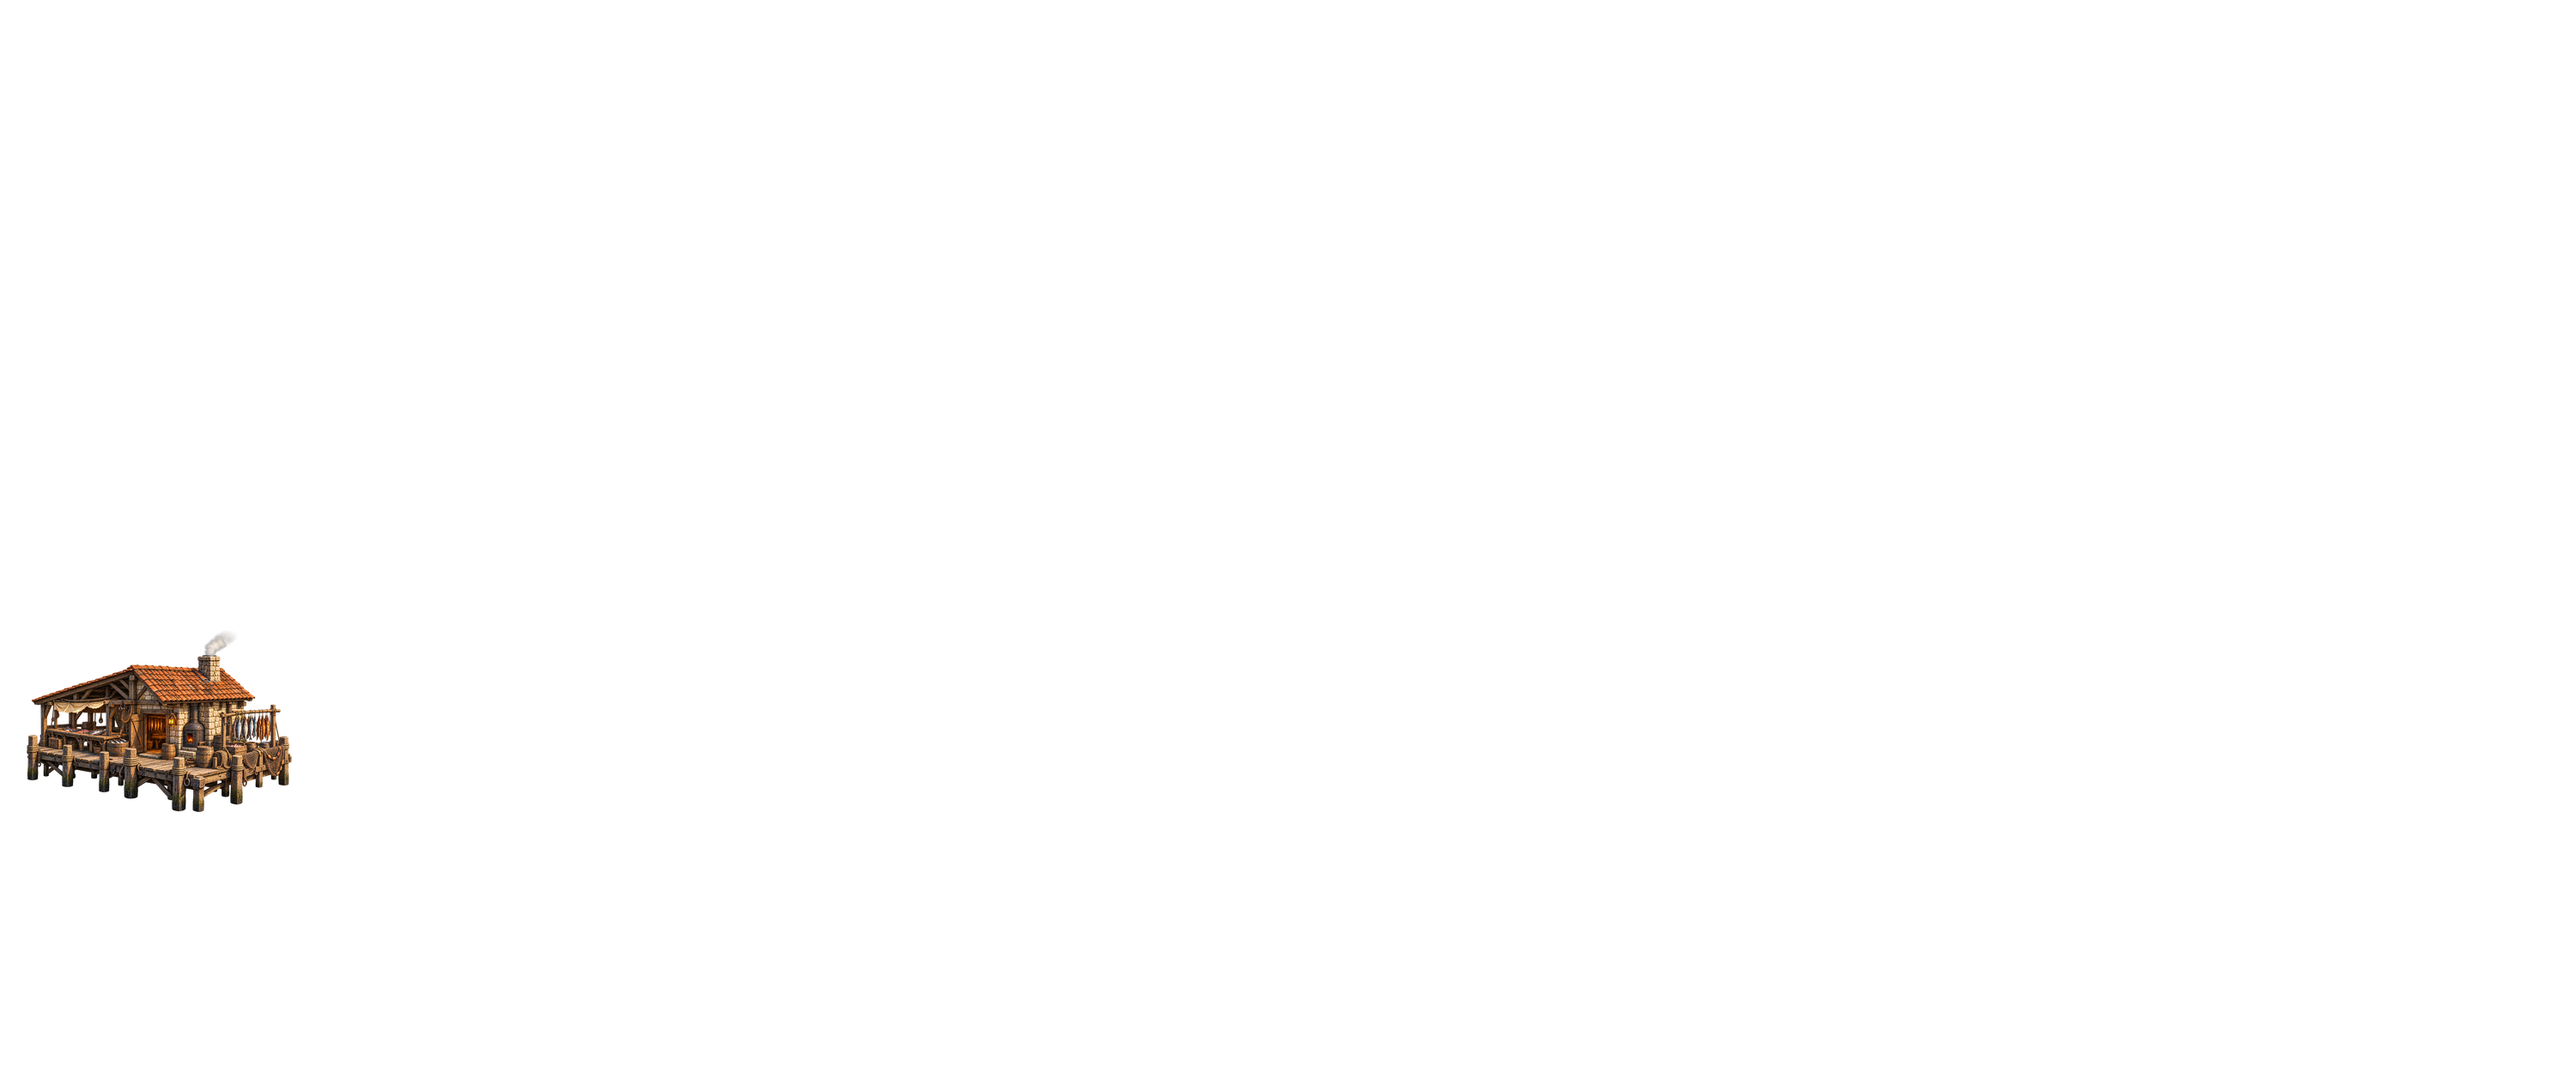
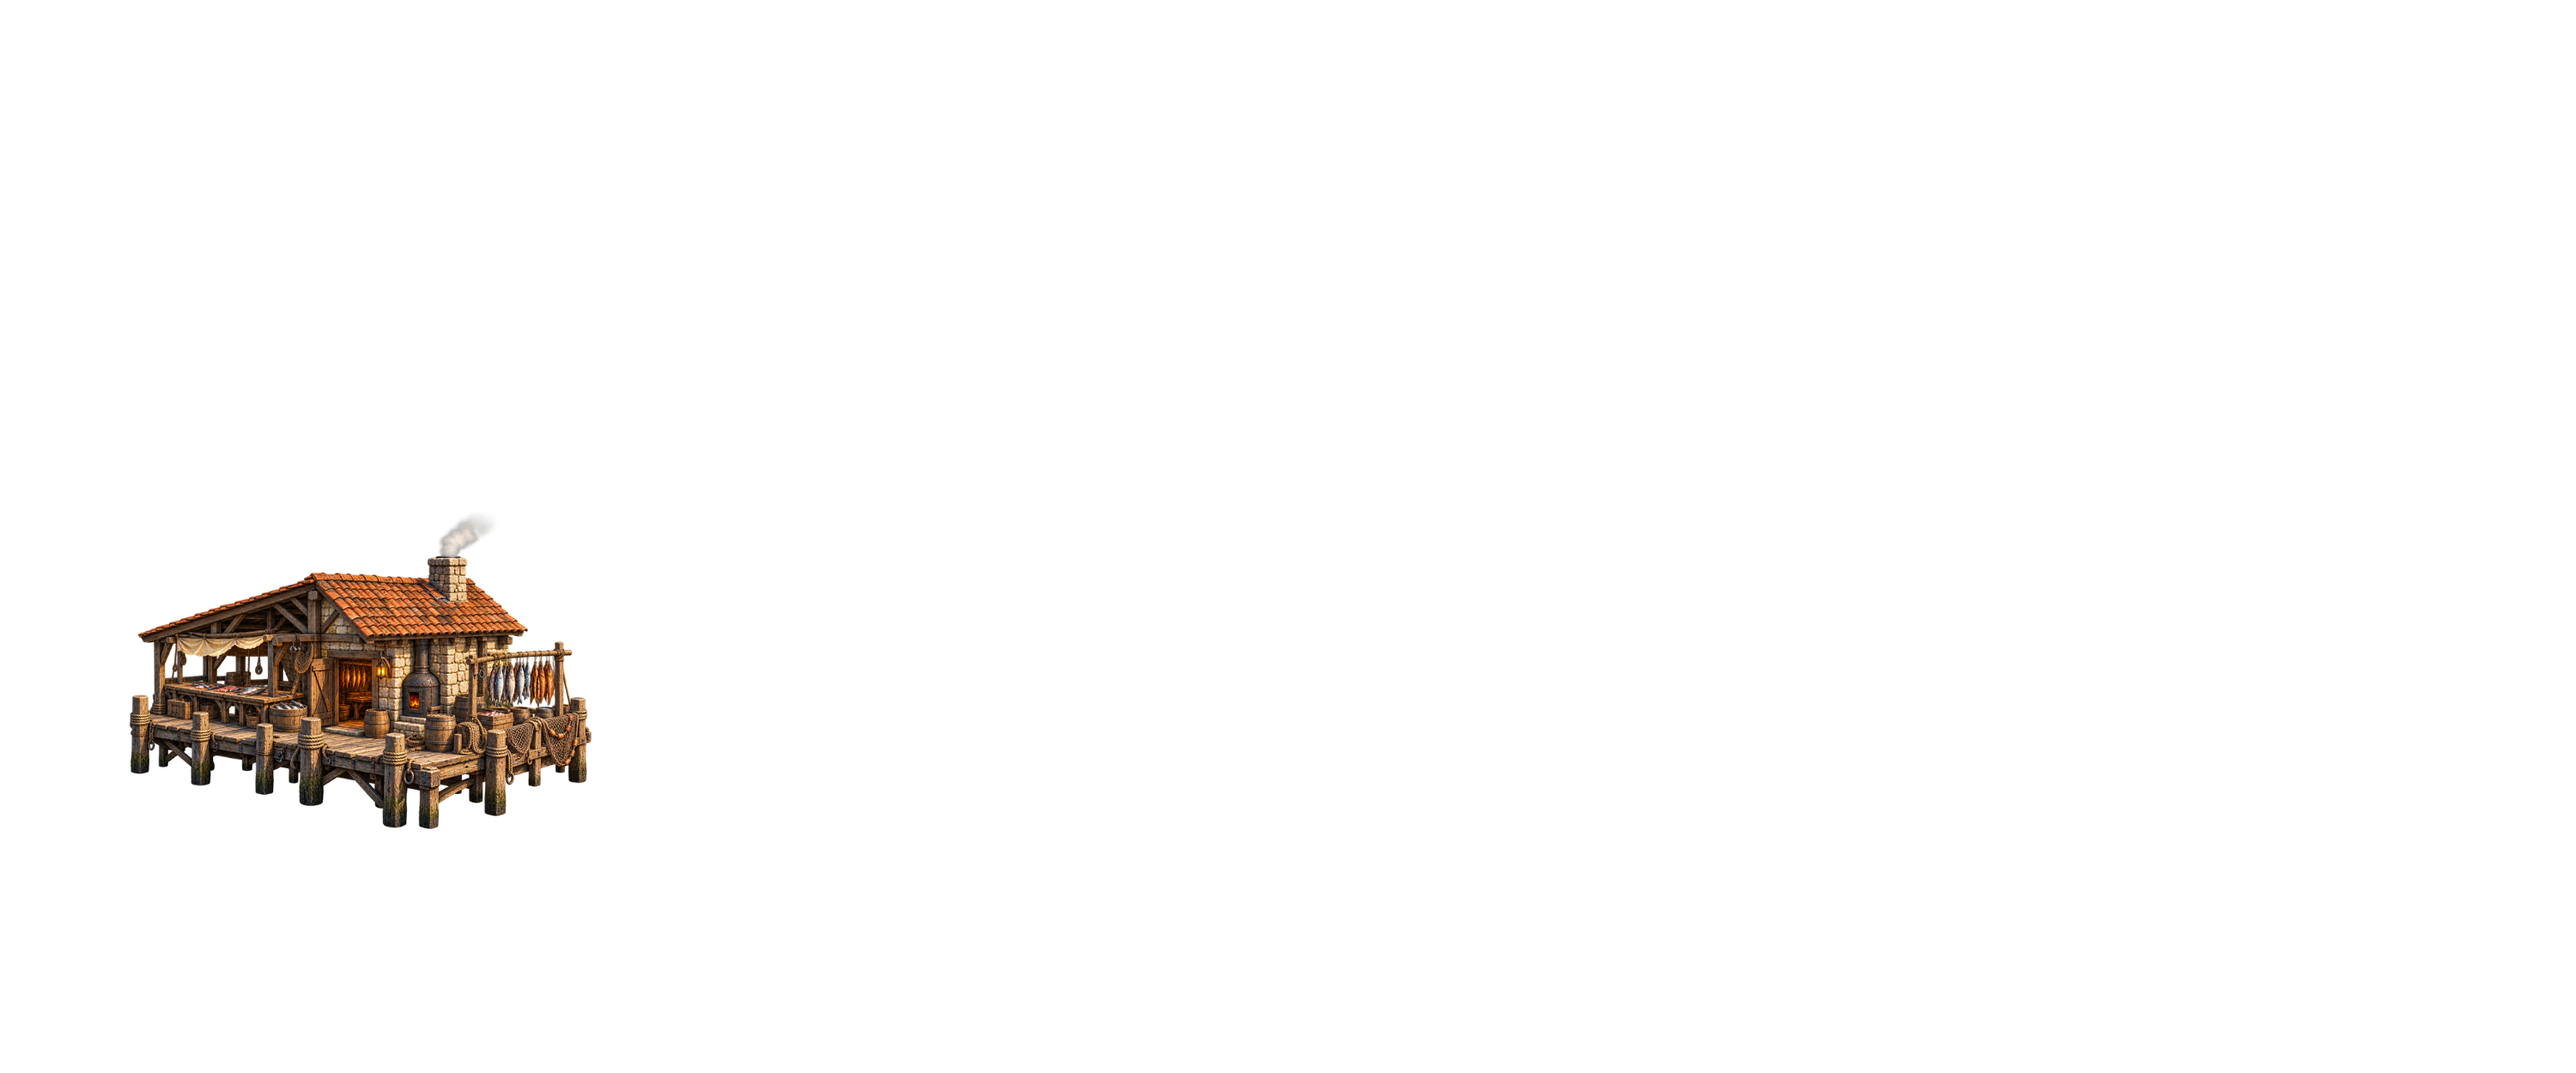
New Bastion map: the start painting is the base, and the buildings use Harry's new overlays
Claude-Session: https://claude.ai/code/session_019H8cm6nMqR18zN8jPhZ5bf

Changed region(s): [[0.0, 0.468, 0.248, 0.78]]

diff --git a/tools/bastion/data/bastion-data.js b/tools/bastion/data/bastion-data.js
@@ -39,13 +39,11 @@ window.TSI_DATA.bastion = {
      little room round it). The Courier Exchange has its own picture
      (facilityImages, above). */
   facilityTileCrops: {
-    /* The Beast Pen (S14) uses the Wyvern Roost's building until Harry paints its own: the Menagerie never
-       had a map overlay to reuse (its card painting is in facilityImages). */
-    beast_pen: { pic: 'map/overlays/wyvern_roost.png', x: 1934, y: 296, w: 295, h: 194 },
-    weavers_hall: { pic: 'map/overlays/weavers_sailmakers_hall.png', x: 2668, y: 670, w: 331, h: 170 },
-    stone_masonworks: { pic: 'map/overlays/stone_quarry_masonworks.png', x: 2004, y: 809, w: 380, h: 206 },
-    fishery_smokehouse: { pic: 'map/overlays/fishery_smokehouse.png', x: 11, y: 714, w: 349, h: 252 },
-    timber_sawmill: { pic: 'map/overlays/timber_yard_sawmill.png', x: 1648, y: 827, w: 380, h: 188 }
+    beast_pen: { pic: 'map/overlays/beast_pen.png', x: 1639, y: 458, w: 531, h: 240 },
+    weavers_hall: { pic: 'map/overlays/weavers_hall.png', x: 2097, y: 409, w: 279, h: 143 },
+    stone_masonworks: { pic: 'map/overlays/stone_quarry_masonworks.png', x: 1965, y: 646, w: 635, h: 331 },
+    fishery_smokehouse: { pic: 'map/overlays/fishery_smokehouse.png', x: 130, y: 578, w: 579, h: 408 },
+    timber_sawmill: { pic: 'map/overlays/timber_yard_sawmill.png', x: 2341, y: 474, w: 389, h: 193 }
   },
   /* Development Plots (the facilities overhaul's pull request 3; Harry's
      facility guide, 13 October 2026): a second kind of construction slot,
@@ -75,17 +73,15 @@ window.TSI_DATA.bastion = {
   mapLabels: {
     workshop: { x: 1030, y: 350 },
     dock: { x: 1260, y: 760 },
-    herbal_gardens: { x: 228, y: 511 },
-    hall_of_emissaries: { x: 2769, y: 376 },
-    /* The Temple stands where the three Shrines did, so it is labelled at each: the first point is Aurush's (the Shrine
-       of Aurush stood there), and "also" lists Telluria's and Pelagos's. */
-    temple: { x: 1275, y: 532, also: [{ x: 2252, y: 722 }, { x: 2668, y: 840 }] },
-    beast_pen: { x: 2081, y: 326 },
-    weavers_hall: { x: 2838, y: 690 },
-    stone_masonworks: { x: 2194, y: 829 },
-    fishery_smokehouse: { x: 185, y: 734 },
-    timber_sawmill: { x: 1838, y: 847 },
-    courier_exchange: { x: 1454, y: 547 }
+    herbal_gardens: { x: 196, y: 464 },
+    hall_of_emissaries: { x: 1582, y: 301 },
+    temple: { x: 182, y: 150 },
+    beast_pen: { x: 1904, y: 478 },
+    weavers_hall: { x: 2236, y: 429 },
+    stone_masonworks: { x: 2282, y: 666 },
+    fishery_smokehouse: { x: 419, y: 598 },
+    timber_sawmill: { x: 2535, y: 494 },
+    courier_exchange: { x: 819, y: 484 }
   },
   /* Facility levels (the facilities overhaul's step 1b, 13 October 2026;
      Harry's decisions D6 to D8): every facility goes from Level 1 to 5. An
@@ -195,14 +191,11 @@ window.TSI_DATA.bastion = {
     width: 3000,
     height: 1250,
     overlays: [
-      { fac: 'herbal_gardens', pic: 'map/overlays/greenhouse.png' },
+      { fac: 'herbal_gardens', pic: 'map/overlays/herbal_gardens.png' },
       { fac: 'hall_of_emissaries', pic: 'map/overlays/hall_of_emissaries.png' },
-      /* The Temple draws all three Shrine buildings (S11); the pictures stay as they were. */
-      { fac: 'temple', pic: 'map/overlays/shrine_of_aurush.png' },
-      { fac: 'temple', pic: 'map/overlays/shrine_of_telluria.png' },
-      { fac: 'temple', pic: 'map/overlays/shrine_of_pelagos.png' },
-      { fac: 'beast_pen', pic: 'map/overlays/wyvern_roost.png' },
-      { fac: 'weavers_hall', pic: 'map/overlays/weavers_sailmakers_hall.png' },
+      { fac: 'temple', pic: 'map/overlays/temple.png' },
+      { fac: 'beast_pen', pic: 'map/overlays/beast_pen.png' },
+      { fac: 'weavers_hall', pic: 'map/overlays/weavers_hall.png' },
       { fac: 'stone_masonworks', pic: 'map/overlays/stone_quarry_masonworks.png' },
       { fac: 'fishery_smokehouse', pic: 'map/overlays/fishery_smokehouse.png' },
       { fac: 'timber_sawmill', pic: 'map/overlays/timber_yard_sawmill.png' },

diff --git a/tests/rules/bastion.test.js b/tests/rules/bastion.test.js
@@ -69,27 +69,25 @@
     t.equal(m.base, 'map/bastion_base.jpg');
     t.same([m.width, m.height], [3000, 1250], 'Harry\'s new painting, 12 October 2026');
     m.overlays.forEach(function (o) { t.ok(R.facility(data, o.fac), o.fac); t.ok(/^map\/overlays\/[a-z_]+\.png$/.test(o.pic), o.pic); });
-    t.same(m.overlays.map(function (o) { return o.fac; }), ['herbal_gardens', 'hall_of_emissaries', 'temple', 'temple', 'temple',
+    t.same(m.overlays.map(function (o) { return o.fac; }), ['herbal_gardens', 'hall_of_emissaries', 'temple',
       'beast_pen', 'weavers_hall', 'stone_masonworks', 'fishery_smokehouse', 'timber_sawmill', 'courier_exchange']);
     t.equal(m.overlays.filter(function (o) { return o.fac === 'menagerie' || o.fac === 'war_room'; }).length, 0, 'no map picture for the war game\'s facilities (the War Room\'s went to assets/extras)');
     t.ok(T.bastion.mapLabels.courier_exchange, 'the Courier Exchange has a place for its label');
-    t.same(m.overlays.filter(function (o) { return o.fac === 'temple'; }).map(function (o) { return o.pic; }), ['map/overlays/shrine_of_aurush.png', 'map/overlays/shrine_of_telluria.png', 'map/overlays/shrine_of_pelagos.png'], 'the Temple draws the three Shrine buildings');
+    t.same(m.overlays.filter(function (o) { return o.fac === 'temple'; }).map(function (o) { return o.pic; }), ['map/overlays/temple.png'], 'the Temple draws its one new building (Harry\'s designs of 26 October 2026)');
     t.same(T.bastion.facilityImages.temple, ['shrine_of_telluria.png', 'shrine_of_aurush.png', 'shrine_of_pelagos.png'], 'and its tile shows the three Shrine paintings side by side');
-    t.same([T.bastion.mapLabels.temple.x, T.bastion.mapLabels.temple.y, T.bastion.mapLabels.temple.also], [1275, 532, [{ x: 2252, y: 722 }, { x: 2668, y: 840 }]], 'a label at each of the three buildings');
+    t.same([T.bastion.mapLabels.temple.x, T.bastion.mapLabels.temple.y, T.bastion.mapLabels.temple.also], [182, 150, undefined], 'one label, at the new building');
   });
 
   test('the map overlays: one per built facility with a picture, a shared picture drawn once, darkened while Under Repair', function (t) {
     var s = fresh();
-    t.same(R.mapOverlays(s, data), [], 'the starting five are in the base painting');
+    t.same(R.mapOverlays(s, data), [], 'the starting buildings (the Workshop, the Dock and the Party Quarters) are in the base painting');
     s.builtExtras = ['temple', 'herbal_gardens', 'beast_pen'].map(function (id) { return { facId: id, status: 'built' }; });
     s.builtExtras.push({ facId: 'hall_of_emissaries', status: 'building', startDay: 1, readyDay: 36 });
     t.same(R.mapOverlays(s, data).map(function (o) { return [o.pic, o.facs]; }), [
-      ['map/overlays/greenhouse.png', ['herbal_gardens']],
-      ['map/overlays/shrine_of_aurush.png', ['temple']],
-      ['map/overlays/shrine_of_telluria.png', ['temple']],
-      ['map/overlays/shrine_of_pelagos.png', ['temple']],
-      ['map/overlays/wyvern_roost.png', ['beast_pen']]
-    ], 'in the data\'s order (the Temple draws all three Shrine buildings); nothing for a building still being built');
+      ['map/overlays/herbal_gardens.png', ['herbal_gardens']],
+      ['map/overlays/temple.png', ['temple']],
+      ['map/overlays/beast_pen.png', ['beast_pen']]
+    ], 'in the data\'s order; nothing for a building still being built');
     s.repairs = { herbal_gardens: s.day + 3 };
     t.same(R.mapOverlays(s, data).filter(function (o) { return o.repair; }).map(function (o) { return o.facs; }), [['herbal_gardens']], 'darkened while Under Repair');
     /* No two facilities share a picture since the overhaul; the rule still draws a shared one once. */

diff --git a/tests/e2e/temple.test.js b/tests/e2e/temple.test.js
@@ -159,12 +159,12 @@ async function receive(ba, god, label, answer) {
 
   section('The panel in thirds');
 
-  await check('its tile shows the three Shrine paintings; the map draws the three buildings and labels each', async () => {
+  await check('its tile shows the three Shrine paintings; the map draws the one Temple building and labels it', async () => {
     await closeAll(ba);
     await ba.waitForFunction(() => Array.from(document.images).every(i => i.complete));
     equal(await ba.$$eval('[data-test=tile-temple] img', is => is.map(i => i.getAttribute('src').split('/').pop() + ':' + (i.naturalWidth > 0))), ['shrine_of_telluria.png:true', 'shrine_of_aurush.png:true', 'shrine_of_pelagos.png:true']);
-    equal(await ba.$$eval('.tsi-bas-map__overlay[data-fac=temple]', os => os.map(o => o.getAttribute('src').split('/').pop() + ':' + (o.naturalWidth > 0))), ['shrine_of_aurush.png:true', 'shrine_of_telluria.png:true', 'shrine_of_pelagos.png:true']);
-    equal(await ba.$$eval('[data-test^=map-label-temple]', ls => ls.map(l => l.dataset.test + ':' + l.textContent.replace(/\s+/g, ' '))), ['map-label-temple:TempleOne level', 'map-label-temple-2:TempleOne level', 'map-label-temple-3:TempleOne level']);
+    equal(await ba.$$eval('.tsi-bas-map__overlay[data-fac=temple]', os => os.map(o => o.getAttribute('src').split('/').pop() + ':' + (o.naturalWidth > 0))), ['temple.png:true']);
+    equal(await ba.$$eval('[data-test^=map-label-temple]', ls => ls.map(l => l.dataset.test + ':' + l.textContent.replace(/\s+/g, ' '))), ['map-label-temple:TempleOne level']);
     await H.shot(ba, 'temple-map');
   });
 

diff --git a/tests/rules/beast-pen.test.js b/tests/rules/beast-pen.test.js
@@ -117,8 +117,8 @@
     var B = T.bastion;
     t.equal(B.facilityImages[PEN], 'beast_pen.jpg');
     t.equal(B.panelImages[PEN], 'beast_pen.jpg');
-    t.same(B.map.overlays.filter(function (o) { return o.fac === PEN; }), [{ fac: PEN, pic: 'map/overlays/wyvern_roost.png' }], 'the Menagerie never had a map picture, so the map reuses the Wyvern Roost\'s building');
-    t.same(B.mapLabels[PEN], { x: 2081, y: 326 });
+    t.same(B.map.overlays.filter(function (o) { return o.fac === PEN; }), [{ fac: PEN, pic: 'map/overlays/beast_pen.png' }], 'the Beast Pen has its own map picture (Harry\'s designs of 26 October 2026)');
+    t.same(B.mapLabels[PEN], { x: 1904, y: 478 });
     ['wyvern_roost', 'griffin_tower', 'dire_wolf_den'].forEach(function (id) {
       t.equal(B.mapLabels[id], undefined, id + ' has no map label');
       t.equal(B.facilityTileCrops[id], undefined, id + ' has no tile crop');

diff --git a/tests/rules/temple.test.js b/tests/rules/temple.test.js
@@ -67,7 +67,7 @@
     t.same([c.ok, c.top, c.single, c.message], [false, true, true, 'The Temple has one level only.']);
     t.same(BR.issueUpgrade(b, data, TEMPLE, dice([0.3])).ok, false);
     t.same(b.pendingOrders, []);
-    t.same(BR.mapLabels(b, data).filter(function (l) { return l.fac === TEMPLE; }).map(function (l) { return [l.name, l.single]; }), [['Temple', true], ['Temple', true], ['Temple', true]], 'labelled at each of its three buildings on the map');
+    t.same(BR.mapLabels(b, data).filter(function (l) { return l.fac === TEMPLE; }).map(function (l) { return [l.name, l.single]; }), [['Temple', true]], 'labelled at its one building on the map');
   });
 
   test('the gods, the die and the number that fills a bar are in the data; three blessings for each god, in Harry\'s order and words', function (t) {

diff --git a/docs/KNOWN_ISSUES.md b/docs/KNOWN_ISSUES.md
@@ -4106,3 +4106,10 @@ These entries come from each step's draft in `docs/strip-back/*-known-issues-dra
 - **Pictures:** Harry's new Leafwing, Ironcrown, Bloodcrest (wyverns), Shovelhorn (Buckbear) and Smokecoat (Fellcat) are in `tools/beasthandler/assets/`. The old Ironcrown and Bloodcrest pictures are kept in `assets/extras/wyvern-previous/`. A variety with no picture yet still shows the plain frame.
 - **Text:** the "Camouflage: …" lines at the end of the Fellcat descriptions are removed so the tables match Harry's PDF exactly.
 - **Online link:** Harry approved the change to ground rule 2 on 26 October 2026, so `CLAUDE.md` now has the four edits from docs/ONLINE-LINK-SETUP.md, Step 5, and `tools/beasthandler/relay-config.js` ships with the post box's address and `enabled: true`. The laptop still sends nothing until the DM presses Switch on in the Bastion. Tests pin the old first-meeting answers with `window.TSI_TEST_FIXED_INITIATION`, and the link tests use their own settings.
+
+### BAS-SB-84 · New Bastion map: the start painting is the base, and the buildings have new designs (26 October 2026)
+**Changed, Harry's request** · visual
+
+- **Before:** the base painting held the Workshop and Dock; each other building came from an overlay, placed on the old map (the Temple had three small overlays, the Beast Pen borrowed the Wyvern Roost).
+- **After:** the base is Harry's `NEW_Bastion_Start.png` (the Workshop, the Dock and the Party Quarters are painted in, so a new Bastion begins with exactly those). The Party Quarters is picture only: no panel, no label. The nine other buildings use Harry's new overlays (the Temple one, the Beast Pen its own), and their labels and tile crops were re-measured from the new pictures. The Dock, Workshop and Party Quarters overlays, the Prison Tower (no facility yet), the empty map and the reference images are kept in `tools/bastion/assets/extras/map-2026-10-26/`; the old overlays and base are in `extras/map-previous/`.
+- **Left alone:** the Workshop and Dock are in the base painting, so they cannot be darkened for Under Repair (as before).

diff --git a/docs/ASSETS.md b/docs/ASSETS.md
@@ -548,3 +548,14 @@ Nothing deleted. Five pictures no longer used moved with `git mv` (byte-for-byte
 | `tools/beasthandler/assets/wyvern/bloodcrest.webp` | Bloodcrest (replaces the old one, kept at `assets/extras/wyvern-previous/bloodcrest-old.webp`) |
 | `tools/beasthandler/assets/buckbear/shovelhorn.webp` | Shovelhorn (new) |
 | `tools/beasthandler/assets/fellcat/smokecoat.webp` | Smokecoat (new) |
+
+## New Bastion map, 26 October 2026
+
+Harry's `New_Bastion_Designs` folder (uploaded to the repository root) was moved:
+
+| Old location | New location |
+|---|---|
+| `New_Bastion_Designs/NEW_Bastion_Start.png` | converted to `tools/bastion/assets/map/bastion_base.jpg` (the PNG is kept in `tools/bastion/assets/extras/map-2026-10-26/`) |
+| `New_Bastion_Designs/Bastion_Overlay_{BeastPen,CourierExchange,FisheryAndSmokehouse,HallOfEmissaries,HerbalGardens,StoneQuarryAndMasonworks,Temple,TimberYardAndSawmill,WeaversHall}.png` | `tools/bastion/assets/map/overlays/{beast_pen,courier_exchange,fishery_smokehouse,hall_of_emissaries,herbal_gardens,stone_quarry_masonworks,temple,timber_yard_sawmill,weavers_hall}.png` |
+| `Bastion_Overlay_{Dock,Workshop,PartyQuarters,PrisonTower}.png`, `Bastion_Empty.png`, `Bastion_Complete_Reference.png`, `Bastion_Overlays_Full.png` | `tools/bastion/assets/extras/map-2026-10-26/` |
+| the previous base and all eleven previous overlays | `tools/bastion/assets/extras/map-previous/` |
